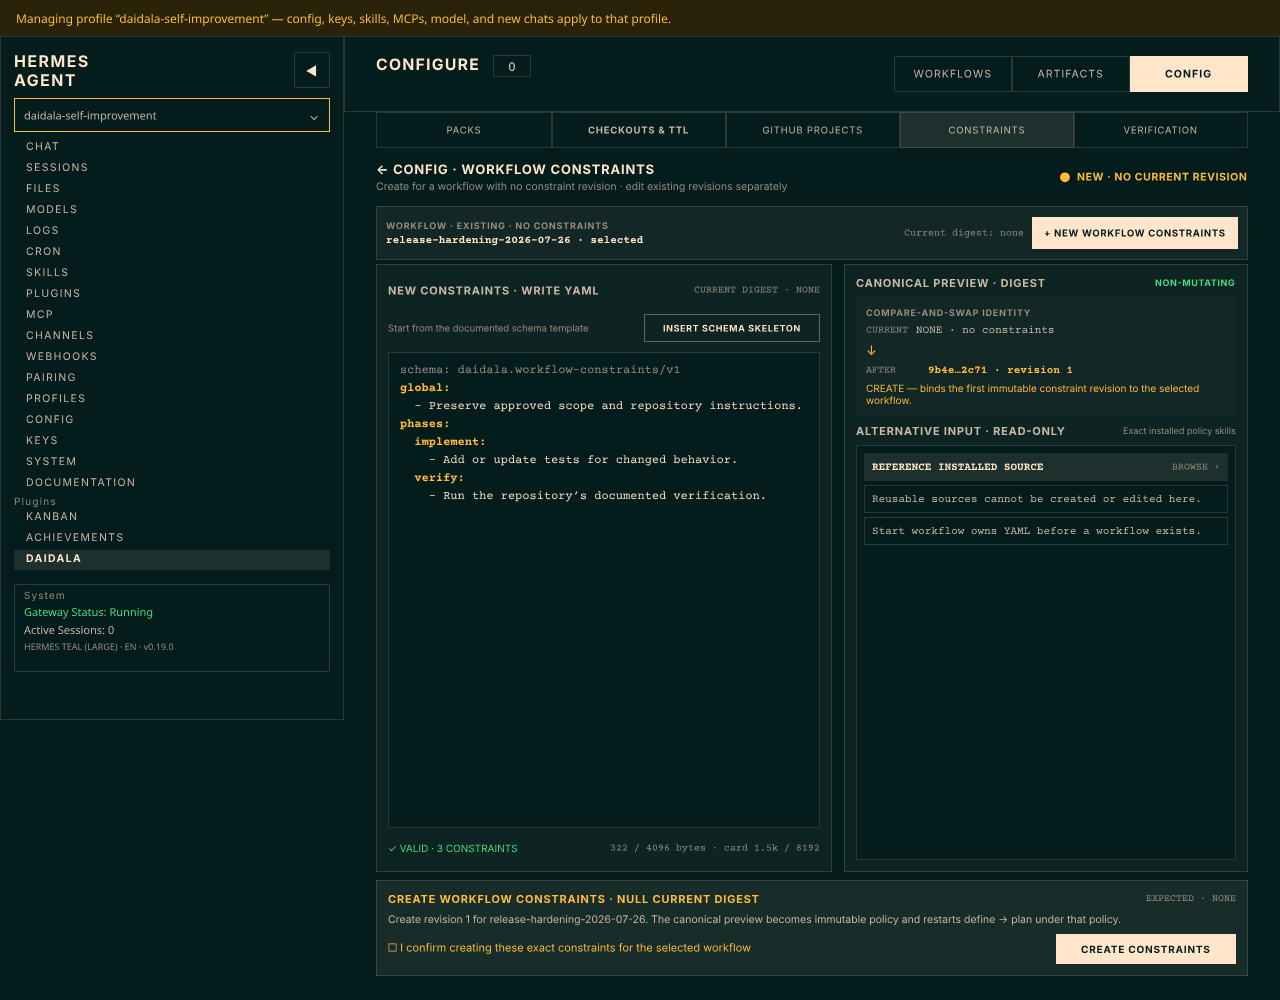
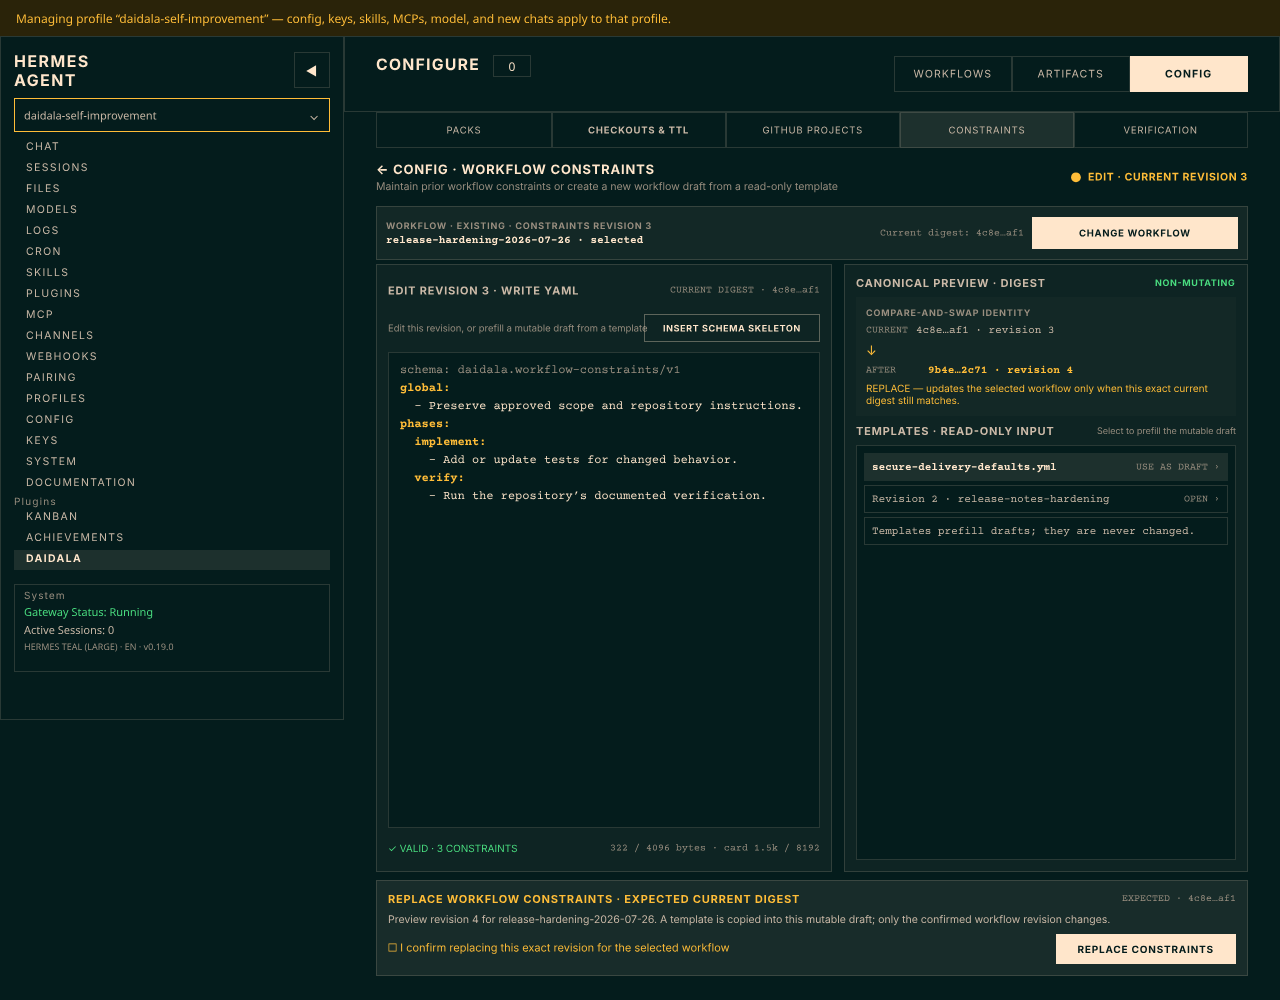
docs(dashboard-ux): add constraint revision flow

diff --git a/docs/plans/P0250-daidala-dashboard-ux-concept.md b/docs/plans/P0250-daidala-dashboard-ux-concept.md
@@ -142,18 +142,20 @@ Actor is always an attended human operator. Legend: ✅ implemented · 🟡 plan
 18. **Manage one GitHub Projects v2 link per project** 🟡 — fresh bounded read + matching preview digest + literal confirm; tokens never cross; remote/alias display-only.
 
 ### Surface E — Author constraints & verify config (P0230)
-19. **Author and select constraints** 🟡 — the Constraints tab serves two
+19. **Author, maintain, and select constraints** 🟡 — the Constraints tab serves two
    related use cases in one subtab: a schema-aware YAML editor with live
    preview, error list, byte/card-bound display, digest impact, and
-   compare-and-swap replace; and an exact installed reusable-source browser
+   compare-and-swap create/replace; and an exact reusable-template browser
    that returns a name/digest selection to Start workflow. The authoring
-   editor and the read-only source browser share the same existing constraint
-   parser, preview, and replace services; replacement stays preview/confirm
-   compare-and-swap in both paths. An inventory-backed workflow selector exposes
-   `New workflow constraints` only for an existing workflow with null current
-   constraint identity; create uses a null current digest. Existing constraints
-   expose `Edit` and require the displayed current digest. Start workflow owns
-   YAML authoring before a workflow exists; installed reusable sources remain
+   editor and the read-only template browser share the existing constraint
+   parser, preview, and replace services. An inventory-backed workflow selector
+   exposes `New workflow constraints` only for an existing workflow with null
+   current constraint identity; creation uses a null current digest. Existing
+   constraints expose `Edit` and require the displayed current digest. Selecting
+   a template copies its literal canonical content into the mutable workflow
+   draft, displays its source digest, and never changes the template; preview
+   and literal confirmation still bind only the target workflow revision. Start
+   workflow owns YAML authoring before a workflow exists; reusable sources remain
    read-only.
 20. **Verify configuration (read-only)** 🟡 — root, TTL, registrations, checkout
    ownership/freshness, link verification, and strict local/live prerequisite
@@ -255,7 +257,10 @@ Three primary views, all inside the single tab and ordered by workflow result:
   their canonical content for selection, and exposes an inventory-backed
   workflow selector plus explicit new/edit actions leading to a schema-aware YAML
   authoring subview with live validation, digest impact, and compare-and-swap
-  create/replacement over the existing preview/confirm path. Verification
+  create/replacement over the existing preview/confirm path. A template is a
+  read-only input: explicit selection copies its canonical content and source
+  digest into the target's mutable draft, while only the preview-confirm action
+  may change the selected workflow revision. Verification
   labels the current report scope, not a persisted mode: Local runs its local checks and
   reports live-only checks as `not run`; `Run live checks` explicitly requests a
   bounded, non-mutating live report. `Open initialization preview` replaces only
@@ -482,8 +487,8 @@ editing.
 | [`dashboard-ux-config-packs.png`](dashboard-ux-config-packs.png) | Config → Packs inventory, exact source/compatibility/readiness, entry to six-stage declared-skill content inspection, and dry-run-first external-skill installation |
 | [`dashboard-ux-pack-contents.png`](dashboard-ux-pack-contents.png) | Config → Packs read-only detail with every lifecycle stage visible, selected declared skill metadata/digest, literal `SKILL.md` content, and no install/activation side effect |
 | [`dashboard-ux-config-github-projects.png`](dashboard-ux-config-github-projects.png) | Config → GitHub Projects registration-derived identity, verified link, and fresh preview-confirm mutation flow |
-| [`dashboard-ux-config-constraints.png`](dashboard-ux-config-constraints.png) | Config → Constraints source-selection subview: exact reusable-source browser, literal content, explicit Start-draft return, and read-only digest |
-| [`dashboard-ux-config-constraints-authoring.png`](dashboard-ux-config-constraints-authoring.png) | Config → Constraints new-authoring subview: inventory-selected existing workflow with null current constraint identity, explicit `New workflow constraints` and `Insert schema skeleton` actions, schema-aware YAML editor with live validation and byte/card bounds, canonical preview, and confirmed compare-and-swap creation with a null current digest; existing constraints use the same editor in `Edit`/replacement mode |
+| [`dashboard-ux-config-constraints.png`](dashboard-ux-config-constraints.png) | Config → Constraints source-selection subview: exact reusable-template browser, literal content, explicit Start-draft return, read-only digest, and an explicit workflow-policy-maintenance entrypoint |
+| [`dashboard-ux-config-constraints-authoring.png`](dashboard-ux-config-constraints-authoring.png) | Config → Constraints authoring subview: inventory-selected workflow revision, explicit workflow change and `Insert schema skeleton` actions, schema-aware YAML editor with live validation and byte/card bounds, template-to-mutable-draft copy with a visible source digest, canonical preview, and confirmed compare-and-swap replacement using the displayed current digest; a workflow with no current identity uses this same editor for null-digest creation |
 | [`dashboard-ux-config-verification.png`](dashboard-ux-config-verification.png) | Config → Verification read-only Local report scope, explicit bounded live rerun, stable IDs, and separate non-mutating initialization-preview handoff |
 | [`dashboard-ux-initialization.png`](dashboard-ux-initialization.png) | Config → Verification → Initialize profile subview with back navigation, resolved target/state/effects/digest, native equivalent, and literal-confirmed idempotent apply |
 | [`dashboard-ux-artifacts.png`](dashboard-ux-artifacts.png) | Ledger-bound artifact browser, detail/escaped preview, and curator actions |
@@ -531,8 +536,9 @@ snapshot_layout({ parentId: "Wi001", maxDepth: 8, problemsOnly: true })
 snapshot_layout({ parentId: "Cf001", maxDepth: 8, problemsOnly: true })
 snapshot_layout({ parentId: "Ar001", maxDepth: 8, problemsOnly: true })
 snapshot_layout({ parentId: "G1ryL", maxDepth: 8, problemsOnly: true })
+snapshot_layout({ parentId: "Z8TvUt", maxDepth: 8, problemsOnly: true })
 snapshot_layout({ parentId: "ph1cP", maxDepth: 8, problemsOnly: true })
-export_nodes({ nodeIds: ["BUbxE", "Wi001", "Cf001", "Ar001", "G1ryL", "ph1cP"], outputDir: "/tmp/daidala-ux-export", format: "png", scale: 1 })
+export_nodes({ nodeIds: ["BUbxE", "Wi001", "Cf001", "Ar001", "G1ryL", "Z8TvUt", "ph1cP"], outputDir: "/tmp/daidala-ux-export", format: "png", scale: 1 })
 save()
 exit()
 ```

diff --git a/docs/plans/P0230-daidala-dashboard-constraints-and-verification.md b/docs/plans/P0230-daidala-dashboard-constraints-and-verification.md
@@ -16,7 +16,7 @@
 
 **Context sources:** [UX concept and design contract](P0250-daidala-dashboard-ux-concept.md), [shared goal and current state](daidala-dashboard-execution-contract.md#goal), [browser mutation allowlist and persisted configuration decisions](daidala-dashboard-execution-contract.md#operator-pinning), [implementer discipline](daidala-dashboard-execution-contract.md#implementer-discipline), and detailed [contract Phase 7](daidala-dashboard-execution-contract.md#phase-7-constraint-authoring-ui) and [contract Phase 8](daidala-dashboard-execution-contract.md#phase-8-configuration-verification-panel)
 
-**Produces:** schema-aware constraint authoring with an exact reusable-source browser, a read-only configuration verification panel, and synchronized phase-local DOX and route inventories
+**Produces:** schema-aware maintenance and creation of workflow constraint revisions, with exact reusable templates copied into mutable drafts, a read-only configuration verification panel, and synchronized phase-local DOX and route inventories
 
 **Status:** pending — blocked until P0220 completes and human implementation approval is recorded
 
@@ -35,7 +35,7 @@ Add bounded constraint authoring and read-only configuration verification withou
 
 | # | Phase | Status | Verification gate |
 |---|---|---|---|
-| 0 | Add constraint authoring UI | pending | The modal provides a schema-validated YAML editor, live preview, error list, and digest impact through the existing preview endpoint; replace semantics remain unchanged |
+| 0 | Add constraint authoring UI | pending | The UI edits an existing workflow revision by its displayed digest or creates a null-digest revision for a workflow with no current identity; a reusable template may prefill a mutable draft without mutation; preview/confirm compare-and-swap semantics remain unchanged |
 | 1 | Add configuration verification panel | pending | The panel remains read-only and verifies persisted root, TTL, registration, checkout, and Projects-link state without exposing secrets/private destinations or supervising a workflow |
 
 Mark a phase `in-progress` while running it, `done (<evidence>)` once its gate passes, `pending` otherwise.
@@ -51,20 +51,23 @@ Steps:
    constraints` action for existing workflows whose current constraint identity
    is null. New uses the same compare-and-swap route with a null current digest;
    workflows with existing constraints expose `Edit` and require their displayed
-   current digest. Start workflow remains the authoring surface for a workflow
-   that does not exist yet; reusable sources remain read-only.
+   current digest. The same authoring view must make this distinction visible in
+   its status, preview identity, confirmation, and authority label. Start
+   workflow remains the authoring surface for a workflow that does not exist yet.
 3. Implement the schema-aware YAML editor, live preview, error rendering,
    byte/card-bound display, digest-impact display, and a read-only inventory of
-   exact installed reusable policy sources. A selected source shows the complete
-   literal escaped skill document and its validated canonical constraint
-   content/digest; source lookup accepts only an inventory name, never a path or
-   arbitrary installed skill. Both the authoring editor and the source browser
-   use the same existing constraint parser, preview, and replace services.
-4. Keep creation and replacement on the existing preview/confirm compare-and-swap path and do not add a new parser or authority model. The source browser is read-only; selecting a source returns its name/digest to Start workflow only through the explicit browser-memory draft handoff defined by P0210. The authoring editor requires a null or displayed current digest and explicit confirmation, per `docs/14-workflow-constraints.md`.
+   exact installed reusable policy templates. Selecting a template copies its
+   complete literal canonical content/digest into the target workflow's mutable
+   draft; it never mutates the template or creates a workflow revision before
+   preview and confirmation. Template lookup accepts only an inventory name,
+   never a path or arbitrary installed skill. Both the authoring editor and the
+   template browser use the same existing constraint parser, preview, and replace
+   services.
+4. Keep creation and replacement on the existing preview/confirm compare-and-swap path and do not add a new parser or authority model. The template browser is read-only; selecting a source returns its name/digest to Start workflow only through the explicit browser-memory draft handoff defined by P0210, and may prefill a Config authoring draft only through an explicit copy. The authoring editor requires a null or displayed current digest and explicit confirmation, per `docs/14-workflow-constraints.md`.
 5. Extend route inventory and same-commit DOX contracts.
 6. Run the focused API, asset, constraint, and disposable-browser gates from the contract.
 
-Verification gate: The Phase 0 table predicate and detailed Phase 7 contract gates pass. Browser evidence proves the explicit new action is scoped to a workflow with null current constraint identity, create sends a null current digest, edit requires the displayed digest, invalid/non-policy skills never appear in the source inventory, source text is literal and complete within the documented UI bound, no browser path is accepted, the authoring editor shows live validation with digest impact, and return to Start requires an explicit source selection.
+Verification gate: The Phase 0 table predicate and detailed Phase 7 contract gates pass. Browser evidence proves the explicit new action is scoped to a workflow with null current constraint identity, create sends a null current digest, edit requires the displayed digest, a selected template copies its literal canonical content and source digest into a mutable draft without changing the template, invalid/non-policy skills never appear in the template inventory, no browser path is accepted, the authoring editor shows live validation with digest impact, and return to Start requires an explicit source selection.
 
 ## Phase 1 — Add the configuration verification panel
 

diff --git a/docs/plans/AGENTS.md b/docs/plans/AGENTS.md
@@ -12,7 +12,8 @@ Own executable plans, shared plan-family contracts, and repository-tracked UX de
 - `dashboard-ux-*.png` files are canonical review renders exported from that
   source, including workflow inventory/detail and attended lifecycle decision
   states, collapsed/expanded start, Artifacts, and each Config subtab state
-  (Constraints covers both the source-selection and authoring subviews).
+  (Constraints covers source selection, template-to-draft creation, and
+  maintenance of existing workflow constraint revisions).
 - Date-prefixed plans and JSON scope/evaluation records remain historical or bounded planning material; active execution must identify its exact source explicitly.
 
 ## Local Contracts
